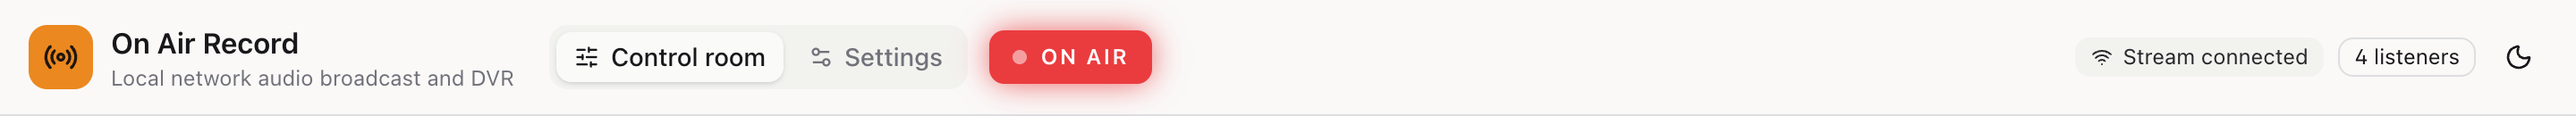
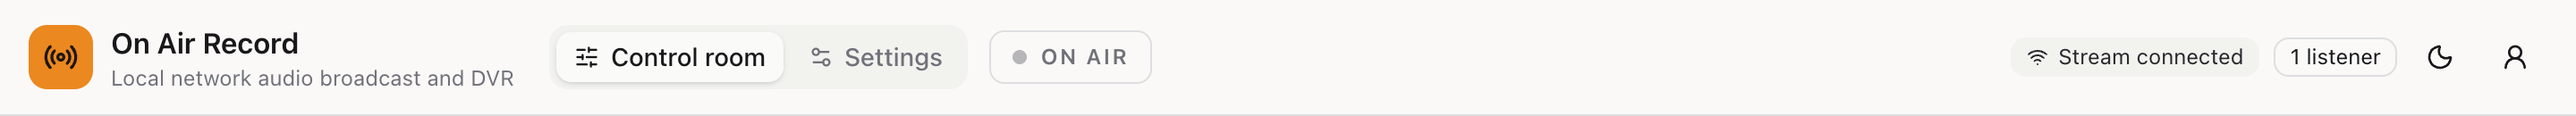
docs:[OAR-77] add screenshots and a user manual for accounts and two factor sign in
The user guide described logins, account settings and two factor sign in in a few paragraphs of text
with no pictures, and its audio screenshot predated the start up delay slider.

It now walks through each part with a screenshot: the first visit question and creating the admin,
signing in with a password and with a code, what a listener sees, the account menu and Account settings,
turning on two factor sign in (QR code, then recovery codes), managing recovery codes, turning it off and
what to do about a lost phone, and, under Settings, who can use the recorder: switching accounts on, each
action in the account list, the last admin and self change rules, and adding an account. The top bar
section describes the account icon. The installation guide shows the first visit question and points at
the walkthrough.

Eleven new screenshots and two refreshed ones (header, with the account icon, and the audio settings, with
the start up delay) were captured the same way as the originals: a real instance at 1440 px, 2x, light
theme, driven by a browser script, with example accounts only. The QR code and recovery codes shown belong
to a throwaway account on that throwaway instance.

Checked: every new image is used once, every in-page link resolves, and the wiki build carries all 35
screenshots and converts the links. The images link to their master address, like the existing ones, so
they appear once this reaches master.

diff --git a/docs/USER_GUIDE.md b/docs/USER_GUIDE.md
@@ -31,6 +31,7 @@ running it on macOS, Linux and Windows.
 
 - [Opening it](#opening-it)
 - [Signing in](#signing-in)
+- [Your account settings](#your-account-settings)
 - [The screen at a glance](#the-screen-at-a-glance)
 - [The top bar](#the-top-bar)
 - [Listening to what is happening now](#listening-to-what-is-happening-now)
@@ -79,36 +80,112 @@ included, because a browser assumes a different one if you leave it out. Changin
 
 ## Signing in
 
-Whoever set the recorder up chose whether it needs a login.
+Whoever set the recorder up chose whether it needs a login. If it does not ask you to sign in, it was left
+open: anyone who can open the address can listen and change the settings. That is meant for a network you
+trust, such as a home, and not for the open internet.
 
-**If it asks you to sign in,** use the email and password the admin gave you. There are two kinds of
-account:
+### The first visit: choosing whether to have logins
 
-- **Listener**: you can listen live, go back through the recordings, change day, play faster or slower,
-  jump to bookmarks, and save audio as a file. The buttons for things you cannot change, such as Record and
-  Stop, the microphone choice, adding bookmarks and the Settings page, are simply not shown to you.
+![The first visit: a question over the control room asking whether to set up accounts or keep the recorder open](https://raw.githubusercontent.com/shibbirweb/on-air-record/master/docs/images/user-guide/first-run.png)
+
+The very first time anyone opens the page, it asks one question, and it does not go away until it is
+answered:
+
+- **Set up accounts**: everybody will need to sign in. You create the first account, which becomes the
+  admin, and can add other people afterwards.
+- **Keep it open**: no login, as before. You can still switch accounts on later from the settings page.
+
+Whoever answers first decides, so if other people share the network, open the page yourself first.
+[Logins and accounts](SETUP.md#logins-and-accounts) in the installation guide helps with the choice.
+
+![Creating the admin account: email, password, and the password again](https://raw.githubusercontent.com/shibbirweb/on-air-record/master/docs/images/user-guide/first-run-setup.png)
+
+Choosing **Set up accounts** asks for an email and a password. Nothing is ever sent to the email; it is only
+the name you sign in with. The password needs at least 8 characters, and a short sentence works well.
+**Create and sign in** finishes setup and signs you straight in.
+
+### Signing in with your password
+
+![The sign in page, with email and password](https://raw.githubusercontent.com/shibbirweb/on-air-record/master/docs/images/user-guide/login.png)
+
+With accounts on, the page asks for your email and password before showing anything else. Use the ones the
+admin gave you. If you have forgotten your password, ask an admin to set a new one.
+
+After five wrong passwords, the device you are using has to wait 15 minutes before trying again. Other
+devices are not affected.
+
+### Signing in with a code
+
+![The second step of signing in, asking for the 6 digit code from the authenticator app](https://raw.githubusercontent.com/shibbirweb/on-air-record/master/docs/images/user-guide/login-code.png)
+
+If you have switched on [two factor sign in](#two-factor-sign-in), a right password takes you to a second
+step. Open your authenticator app, find **On Air Record**, and type the 6 digit code it shows. No phone to
+hand? Type one of your recovery codes instead. **Use a different account** goes back to the password.
+
+### Admins and listeners
+
+There are two kinds of account:
+
 - **Admin**: everything, including the settings and the list of accounts.
+- **Listener**: listen live, go back through the recordings, change day, play faster or slower, jump to
+  bookmarks, and save audio as a file.
 
-Your account is the person icon at the top right. It shows your email and role, and has **Account settings**
-and **Sign out**. Account settings is where you change your password and set up two factor sign in, and
-every account can open it, listeners included. Changing your password signs you out on every other device
-you use. If you forget it, ask an admin to set a new one.
+![The control room as a listener sees it: no Settings link, no Record button, and the microphone choice greyed out](https://raw.githubusercontent.com/shibbirweb/on-air-record/master/docs/images/user-guide/listener-view.png)
 
-**Two factor sign in** adds a second step after your password: a 6 digit code from an authenticator app on
-your phone, such as Google Authenticator, Microsoft Authenticator, Authy or 1Password. To switch it on,
-open **Account settings**, press **Set up** under **Two factor sign in**, scan the QR code with the app,
-and type the code the app then shows. You are given ten recovery codes: save them somewhere safe, away from
-your phone. Each one signs you in once if your phone is lost. From then on, signing in asks for the code
-after your password. If you lose your phone and your recovery codes, an admin can switch it off for you.
+A listener sees the same control room without the things they cannot change. There is no **Settings** link
+in the top bar, no **Record** or **Stop** button, the microphone choice is greyed out, and bookmarks can be
+jumped to but not added or removed.
 
-**If it does not ask you to sign in,** it was left open: anyone who can open the address can listen and
-change the settings. That is intended for a network you trust, such as a home, and not for the open
-internet.
+## Your account settings
 
-**If you are the first person ever to open it,** it asks you to choose. **Set up accounts** makes you the
-admin; **Keep it open** leaves it without a login. The installation guide explains the choice under
-[Logins and accounts](SETUP.md#logins-and-accounts). An open recorder can still be switched to accounts
-later from Settings.
+![The account menu, open under the person icon: the email, the role, Account settings and Sign out](https://raw.githubusercontent.com/shibbirweb/on-air-record/master/docs/images/user-guide/account-menu.png)
+
+With accounts on, the person icon at the top right is your account. It shows your email and whether you are
+an admin or a listener, and has **Account settings** and **Sign out**.
+
+![Account settings: changing your password, and two factor sign in](https://raw.githubusercontent.com/shibbirweb/on-air-record/master/docs/images/user-guide/account-settings.png)
+
+**Account settings** is yours whatever your role, listeners included. It opens as a page inside the app, so
+audio you are listening to keeps playing.
+
+To **change your password**, type the current one and the new one twice, then press **Change password**.
+Every other device signed in to your account is signed out, which is the point if you think someone may know
+the old one. The device you are using stays signed in.
+
+### Two factor sign in
+
+Two factor sign in adds a second step after your password: a 6 digit code from an authenticator app on your
+phone, such as Google Authenticator, Microsoft Authenticator, Authy or 1Password. Someone who learns your
+password still cannot sign in without your phone. It is especially worth having on an admin account.
+
+**To switch it on**, open **Account settings** and press **Set up** under **Two factor sign in**, then
+**Set up** again.
+
+![Setting up two factor sign in: a QR code to scan, and a box for the code the app then shows](https://raw.githubusercontent.com/shibbirweb/on-air-record/master/docs/images/user-guide/two-factor-scan.png)
+
+1. Scan the QR code with your authenticator app. It appears there as **On Air Record** with your email.
+   If you cannot scan it, open **Cannot scan it? Type this key instead** and type the key into the app.
+2. Type the 6 digit code the app now shows, and press **Turn on**. Codes change every 30 seconds, so type
+   the current one.
+
+![Ten recovery codes, with Copy, Download and I have saved them](https://raw.githubusercontent.com/shibbirweb/on-air-record/master/docs/images/user-guide/two-factor-codes.png)
+
+3. You are given ten **recovery codes**. Each one signs you in once, in place of a code from your phone,
+   for the day your phone is lost or flat. They are shown only now, so press **Download** and keep the file
+   somewhere safe and away from your phone, then press **I have saved them**. On a plain `http://` address
+   the browser does not allow **Copy**, so use **Download**.
+
+From then on, signing in asks for [the code after your password](#signing-in-with-a-code). The **Two factor
+sign in** card on Account settings says it is on and how many recovery codes you have left, and **Manage**
+opens it again:
+
+- **New recovery codes** replaces the whole set, for when they are running low or you have lost the file.
+  The old ones stop working. It asks for your password.
+- **Turn off** goes back to signing in with just your password. It asks for your password too.
+
+**If you lose your phone:** sign in with a recovery code, then open **Manage**, turn two factor sign in off
+and set it up again on the new phone. If you have no recovery codes left either, an admin can switch it off
+for you from the settings page.
 
 ## The screen at a glance
 
@@ -132,7 +209,7 @@ reporting a problem, and the version number.
 
 ## The top bar
 
-![The top bar, showing the ON AIR sign, the page links, the connection status and the listener count](https://raw.githubusercontent.com/shibbirweb/on-air-record/master/docs/images/user-guide/header.png)
+![The top bar, showing the ON AIR sign, the page links, the connection status, the listener count and the account icon](https://raw.githubusercontent.com/shibbirweb/on-air-record/master/docs/images/user-guide/header.png)
 
 Reading from left to right:
 
@@ -145,6 +222,8 @@ Reading from left to right:
   [Questions and problems](#questions-and-problems).
 - **The listener count** is how many browsers are currently connected.
 - **The moon or sun icon** switches between light and dark colours.
+- **The person icon** is your account, when the recorder has logins: see
+  [Your account settings](#your-account-settings). A listener sees no **Settings** link.
 
 ## Listening to what is happening now
 
@@ -363,6 +442,8 @@ it levels off is set by the retention window, described next.
 
 ![The settings page](https://raw.githubusercontent.com/shibbirweb/on-air-record/master/docs/images/user-guide/settings.png)
 
+With logins on, only admins have a settings page; listeners never see it.
+
 Settings work differently from the rest of the app: **nothing you change takes effect until you press Save
 changes.** A bar appears at the bottom of the page with three buttons.
 
@@ -416,7 +497,7 @@ on playing normally, so you can move the location without losing history.
 
 ### Microphone level, block length and start up
 
-![The audio settings: input gain, segment length and record on start up](https://raw.githubusercontent.com/shibbirweb/on-air-record/master/docs/images/user-guide/settings-audio.png)
+![The audio settings: input gain, segment length, record on start up and start up delay](https://raw.githubusercontent.com/shibbirweb/on-air-record/master/docs/images/user-guide/settings-audio.png)
 
 **Input gain** makes a quiet microphone louder. Watch the level meter on the control room page while you
 adjust it. Above 1.00x you risk distorting an already loud microphone.
@@ -434,6 +515,39 @@ recording after a reboot turns out silent while pressing Stop and then Start fix
 microphone was not ready yet when the service started, which is common with USB microphones on a machine
 that runs the service at boot. Ten to thirty seconds is usually plenty. The page itself is available
 straight away; only the recording waits.
+
+### Who can use the recorder
+
+The **Access** card at the bottom of the page is different from the rest: whatever you do there happens at
+once, without pressing Save.
+
+On a recorder that was kept open, it has a **Set up accounts** button, which asks for the first admin
+account exactly as the [first visit](#the-first-visit-choosing-whether-to-have-logins) does. Anyone already
+listening is asked to sign in within a few seconds.
+
+![The Access card: the list of accounts, each with its role, and Add an account](https://raw.githubusercontent.com/shibbirweb/on-air-record/master/docs/images/user-guide/settings-access.png)
+
+With accounts on, it lists everyone who can sign in. Your own account is marked **you**, and **2FA** marks
+anyone who uses [two factor sign in](#two-factor-sign-in). For each of the others:
+
+- **The role menu** makes them an admin or a listener. The recorder applies it at once, without them signing
+  in again; their page shows the buttons for the new role the next time it loads.
+- **The key button** sets a new password for them, for when they have forgotten theirs. They are signed out
+  everywhere and sign in again with the new one.
+- **The shield button**, shown only for someone using two factor sign in, removes it, for when they have
+  lost both their phone and their recovery codes. They then sign in with just their password.
+- **The bin button** removes the account, after asking you to confirm. They are signed out at once, and
+  anything they were listening to stops within 15 seconds.
+
+There is always at least one admin: the last one cannot be made a listener or removed. You cannot change
+your own role or remove yourself here either; another admin does that, so nobody locks themselves out by
+accident.
+
+![Adding an account: email, password twice, and the role](https://raw.githubusercontent.com/shibbirweb/on-air-record/master/docs/images/user-guide/add-account.png)
+
+**Add an account** asks for the person's email, a first password, and whether they are a listener or an
+admin. Give them the email and password yourself, since nothing is sent to them. They can change the
+password under [Account settings](#your-account-settings) once they are in.
 
 ## On a phone or a tablet
 

diff --git a/docs/SETUP.md b/docs/SETUP.md
@@ -472,6 +472,8 @@ the choice.
 A recorder is a microphone that is always on, so decide who can reach it. The first person to open the page
 is asked once:
 
+![The first visit: a question over the control room asking whether to set up accounts or keep the recorder open](https://raw.githubusercontent.com/shibbirweb/on-air-record/master/docs/images/user-guide/first-run.png)
+
 - **Set up accounts.** They create the admin account on the spot, and from then on everybody signs in.
 - **Keep it open.** No login, as in earlier versions. Anyone who can reach the page can listen, go back
   through the recordings, download them, and change the settings.
@@ -483,6 +485,9 @@ websites are refused, so opening some other site cannot make a browser listen in
 The question is asked by whoever arrives first. On a network with other people on it, open the page
 yourself as soon as it starts, so that nobody answers it before you do. An existing installation that is
 upgraded asks the question too, on its next visit.
+
+The [user guide](USER_GUIDE.md#signing-in) walks through every screen of this with pictures: the first
+visit, signing in, account settings, two factor sign in, and managing accounts.
 
 ### Who can do what
 
